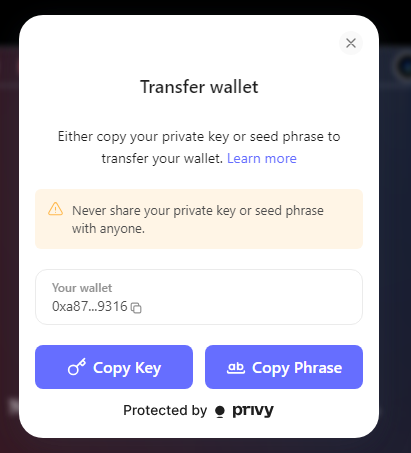
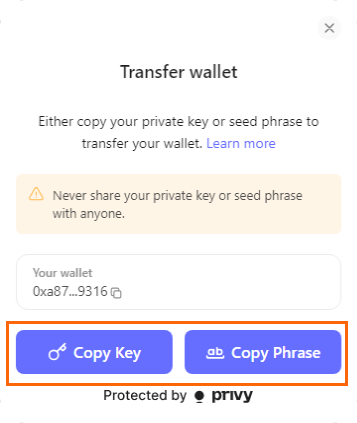
Update ExportWallet popup

diff --git a/src/components/WalletPopup.tsx b/src/components/WalletPopup.tsx
@@ -46,17 +46,17 @@ const WalletPopup: React.FC<WalletPopupProps> = ({ isOpen, onClose }) => {
       render: () => (
         <>
           <div
-            className={` text-lg ${
+            className={` text-lg text-center  ${
               theme === "dark" ? "text-white" : "text-black"
             }`}
           >
-            1. Click on{" "}
-            <span className={`font-bold text-[#FE660A]`}>Copy Phrase</span> or
-            <span className={`font-bold text-[#FE660A]`}> Copy Key</span> from
+            Click on {""}
+            <span className={`font-bold text-[#FFE500]`}>Copy Phrase</span> or
+            <span className={`font-bold text-[#FFE500]`}> Copy Key</span> from
             export wallet.
           </div>
-          <div className="flex justify-center mt-3">
-            <Image src={Exwallet} alt="" />
+          <div className="flex justify-center mt-5">
+            <Image src={Exwallet} alt="" width={300} />
           </div>
         </>
       ),
@@ -66,44 +66,168 @@ const WalletPopup: React.FC<WalletPopupProps> = ({ isOpen, onClose }) => {
       render: () => (
         <>
           <div
-            className={` text-lg ${
+            className={` text-lg text-center mb-3 ${
               theme === "dark" ? "text-white" : "text-black"
             }`}
           >
-            1. Visit the Official Website:
-            <span className={`font-bold text-[#FE660A]`}>Copy Phrase</span> or
-            <span className={`font-bold text-[#FE660A]`}> Copy Key</span> from
-            export wallet.
+            Download & Install the Extension or App{" "}
           </div>
-          <div className="flex justify-center mt-3">
-            <Image src={install} alt="" width={300} />
+          <div className="flex gap-5 items-start">
+            <div className="flex justify-center mt-3">
+              <Image src={install} alt="" width={250} />
+            </div>
+            <div className="w-[60%] mt-3">
+              <div
+                className={` text-lg  ${
+                  theme === "dark" ? "text-[#FFE500]" : "text-black"
+                }`}
+              >
+                1. Visit the Official Website :
+              </div>
+              <div>
+                Go to the official website:{" "}
+                <a
+                  className="text-blue-600"
+                  href="https://metamask.io/"
+                  target="_blank"
+                >
+                  https://metamask.io/
+                </a>
+                .
+              </div>
+
+              <div
+                className={` text-lg mt-5 ${
+                  theme === "dark" ? "text-[#FFE500]" : "text-black"
+                }`}
+              >
+                2. For desktop :
+              </div>
+              <div>
+                - Click "Download" and choose the browser extension for Chrome,
+                Firefox, Brave, or Edge.
+              </div>
+              <div>
+                - Install the extension from the browser's official store.
+              </div>
+              <div
+                className={` text-lg mt-5  ${
+                  theme === "dark" ? "text-[#FFE500]" : "text-black"
+                }`}
+              >
+                3. For Mobile :
+              </div>
+              <div>
+                - Download the MetaMask app from the App Store (iOS) or Google
+                Play Store (Android).
+              </div>
+            </div>
           </div>
         </>
       ),
     },
     {
       title: "Slide 3",
-      render: () => <div>Content for Slide 3</div>,
+      render: () => (
+        <>
+          <div
+            className={` text-lg text-center mb-3 ${
+              theme === "dark" ? "text-white" : "text-black"
+            }`}
+          >
+            Import and export wallet instruction
+          </div>
+          <div>
+            <ul
+              className={` text-lg mt-5  ${
+                theme === "dark" ? "text-[#FFE500]" : "text-black"
+              }`}
+            >
+              1. Export wallet :
+            </ul>
+            <li>
+              Exporting your wallet means saving the private keys or recovery
+              phrase associated with your wallet.
+            </li>
+            <li>This allows you to access your wallet from any device. </li>
+            <li>
+              It's important to keep your private keys safe, as anyone with
+              access to them can control your wallet and the assets within it.
+              It’s like a password for a wallet but you can't change or forget
+              it.
+            </li>
+          </div>
+          <div>
+            <ul
+              className={` text-lg mt-5  ${
+                theme === "dark" ? "text-[#FFE500]" : "text-black"
+              }`}
+            >
+              1. Import Wallet :
+            </ul>
+            <li>
+              Importing your wallet means restoring access to your existing
+              wallet on a new device by using your private key or recovery
+              Phrase.
+            </li>
+            <li>
+              This process is essential when switching devices or recovering
+              access to your wallet.
+            </li>
+            <li>
+              Importing a wallet ensures you can continue managing your tokens
+              and assets securely.
+            </li>
+          </div>
+        </>
+      ),
     },
     {
       title: "Slide 4",
       render: () => (
+        <>
+          <div
+            className={` text-lg text-center mb-3 ${
+              theme === "dark" ? "text-white" : "text-black"
+            }`}
+          >
+            There are 2 methods for export wallet
+          </div>
+          <div>
+            <ul
+              className={` text-lg mt-5 mb-3 ${
+                theme === "dark" ? "text-[#FFE500]" : "text-black"
+              }`}
+            >
+              1. Copy Phrase :
+            </ul>
+            <li>
+              This method will export your entire wallet with an account. You
+              will need to import the entire wallet in your preferred wallet
+              provider.
+            </li>
+          </div>
+          <div>
+            <ul
+              className={` text-lg mt-5 mb-3 ${
+                theme === "dark" ? "text-[#FFE500]" : "text-black"
+              }`}
+            >
+              1. Copy Key :
+            </ul>
+            <li>
+              This method will export only one account which you can import in
+              your existing wallet using a private key.
+            </li>
+          </div>
+        </>
+      ),
+    },
+    {
+      title: "Slide 5",
+      render: () => (
         <div>
           <p>Content for Slide 4</p>
-          <div className="flex justify-around mt-4">
-            <button
-              onClick={() => handleMethodSelect("copy")}
-              className="px-4 py-2 bg-blue-600 text-white rounded-l-lg"
-            >
-              Copy
-            </button>
-            <button
-              onClick={() => handleMethodSelect("phrase")}
-              className="px-4 py-2 bg-green-600 text-white rounded-r-lg"
-            >
-              Phrase
-            </button>
-          </div>
         </div>
       ),
     },
@@ -128,16 +252,24 @@ const WalletPopup: React.FC<WalletPopupProps> = ({ isOpen, onClose }) => {
 
   const handleNext = () => {
     const steps = getCurrentSteps();
+
+    // If we are on the last step of the main flow (Step 4), go to Copy/Phrase buttons selection
+    if (currentStep === 4 && !flowType) {
+      setFlowType(null); // Reset the flow to null to show method selection (Copy/Phrase)
+      setCurrentStep(5); // Move to the step that shows Copy/Phrase buttons
+      return; // Exit the function early to avoid further changes
+    }
+
+    // Normal flow: Proceed to next step
     if (currentStep < steps.length - 1) {
       setCurrentStep(currentStep + 1);
     }
   };
-
   const handleBack = () => {
     if (flowType) {
       // If we are in "copy" or "phrase" flow, return to Step 3 (main flow)
       setFlowType(null); // Reset the flow
-      setCurrentStep(3); // Go to Step 3 in the main flow
+      setCurrentStep(4); // Go to Step 3 in the main flow
     } else {
       // Normal navigation
       if (currentStep > 0) {
@@ -163,10 +295,10 @@ const WalletPopup: React.FC<WalletPopupProps> = ({ isOpen, onClose }) => {
 
   return (
     <div>
-      <div className="fixed inset-0 bg-black bg-opacity-50 flex items-center justify-center z-[100] ">
+      <div className="fixed inset-0 bg-black bg-opacity-80 flex items-center justify-center z-[100] ">
         <div
           ref={popupRef}
-          className="bg-white rounded-lg w-[60%]  relative mx-w-3xl m-auto"
+          className="bg-white rounded-lg w-[45%]  relative  m-auto"
         >
           {/* Close button at the top right */}
           <div className="absolute top-0 right-0 z-10">
@@ -178,39 +310,16 @@ const WalletPopup: React.FC<WalletPopupProps> = ({ isOpen, onClose }) => {
             </button>
           </div>
 
-          {(currentStep === 3 || flowType) && (
-            <div className="flex border-b border-gray-200">
-              <button
-                onClick={() => handleMethodSelect("copy")}
-                className={`flex-1 px-4 py-3 text-sm font-medium border-b-2 ${
-                  flowType === "copy"
-                    ? "border-blue-600 text-blue-600 bg-blue-100" // Active state
-                    : "border-transparent text-gray-500 hover:text-gray-700 hover:border-gray-300"
-                }`}
-              >
-                Copy
-              </button>
-              <button
-                onClick={() => handleMethodSelect("phrase")}
-                className={`flex-1 px-4 py-3 text-sm font-medium border-b-2 ${
-                  flowType === "phrase"
-                    ? "border-blue-600 text-blue-600"
-                    : "border-transparent text-gray-500 hover:text-gray-700 hover:border-gray-300"
-                }`}
-              >
-                Phrase
-              </button>
-            </div>
-          )}
-
           <div
-            className={`p-6 pt-3 flex flex-col justify-between h-[680px] rounded-md ${
-              theme === "dark"
-                ? "bg-[#000000] border border-[#FFE500]"
-                : "bg-[#F4F3F3] border border-[#E265FF]"
+            className={`  flex flex-col justify-between rounded-md ${
+              theme === "dark" ? "bg-[#1E1E1E] " : "bg-[#F4F3F3]"
             }`}
           >
-            <div className="mb-8">
+            <div
+              className={`p-6  ${
+                theme === "dark" ? "bg-[#080808] " : "bg-[#F4F3F3] "
+              }`}
+            >
               <div className="flex justify-start mb-1">
                 {/* <h2 className="text-xl font-semibold">
                     {getCurrentSteps()[currentStep].title}
@@ -220,7 +329,7 @@ const WalletPopup: React.FC<WalletPopupProps> = ({ isOpen, onClose }) => {
                 </span>
               </div>
 
-              <div className="h-1 bg-gray-200 rounded-full">
+              <div className="h-2 bg-gray-200 rounded-full">
                 <div
                   className={`h-full  rounded-full transition-all duration-300 ${
                     theme === "dark" ? "bg-[#FFE500]" : "bg-[#E265FF]"
@@ -233,18 +342,45 @@ const WalletPopup: React.FC<WalletPopupProps> = ({ isOpen, onClose }) => {
                 />
               </div>
             </div>
-
-            <div className="mb-8">
+            {(currentStep === 4 || flowType) && (
+              <div className="flex border-b border-gray-200">
+                <button
+                  onClick={() => handleMethodSelect("copy")}
+                  className={`flex-1 px-4 py-3 text-sm font-medium border-b-2 ${
+                    flowType === "copy"
+                      ? "border-blue-600 text-blue-600 bg-blue-100" // Active state
+                      : "border-transparent text-gray-500 hover:text-gray-700 hover:border-gray-300"
+                  }`}
+                >
+                  Copy
+                </button>
+                <button
+                  onClick={() => handleMethodSelect("phrase")}
+                  className={`flex-1 px-4 py-3 text-sm font-medium border-b-2 ${
+                    flowType === "phrase"
+                      ? "border-blue-600 text-blue-600"
+                      : "border-transparent text-gray-500 hover:text-gray-700 hover:border-gray-300"
+                  }`}
+                >
+                  Phrase
+                </button>
+              </div>
+            )}
+            <div
+              className={` p-6  ${
+                theme === "dark" ? "bg-[#1E1E1E] " : "bg-[#F4F3F3] "
+              }`}
+            >
               {getCurrentSteps()[currentStep].render()}
             </div>
 
-            <div className="flex justify-between">
+            <div className="flex justify-between px-6 pb-6">
               <button
                 onClick={handleBack}
-                className={`px-4 py-2 rounded-lg ${
+                className={`px-6 py-2 rounded-full ${
                   currentStep === 0
-                    ? "bg-gray-200 text-gray-500 cursor-not-allowed"
-                    : "bg-gray-600 text-white hover:bg-gray-700"
+                    ? "bg-transaparnt cursor-not-allowed border border-[#FFE500]"
+                    : "bg-transaparnt text-white  border border-[#FFE500]"
                 }`}
                 disabled={currentStep === 0}
               >
@@ -253,7 +389,7 @@ const WalletPopup: React.FC<WalletPopupProps> = ({ isOpen, onClose }) => {
 
               <button
                 onClick={handleNext}
-                className={`px-4 py-2 bg-[#FF336A] text-white rounded-lg  ${
+                className={`px-6 py-2 bg-[#FFE500] text-black rounded-full  ${
                   currentStep === getCurrentSteps().length - 1 && !flowType
                     ? "invisible"
                     : ""
